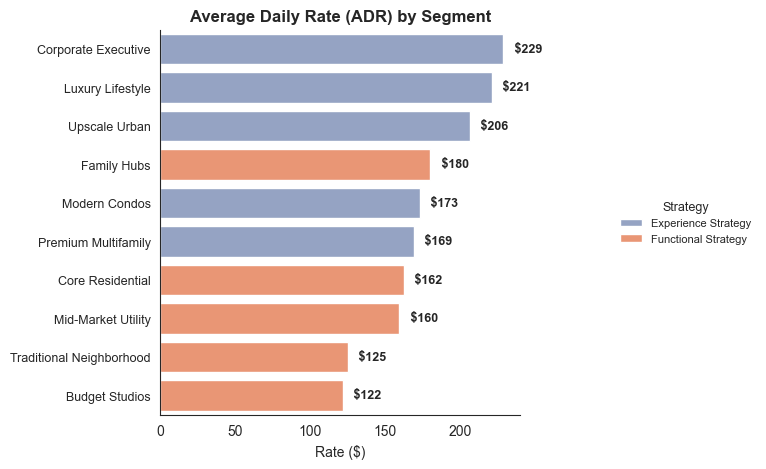
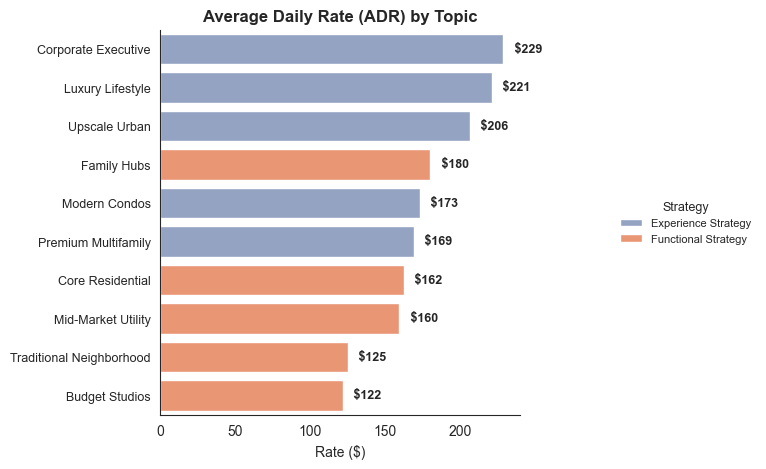
updated chart titles

Changed region(s): [[0.2402, 0.0, 0.6606, 0.0597]]

diff --git a/nlp/topic_analysis.py b/nlp/topic_analysis.py
@@ -41,7 +41,7 @@ sns.set_style("white")
 rev_data = topic_stats.sort_values(by='ttm_revenue', ascending=False)
 plt.figure(figsize=(8, 5)) 
 ax = sns.barplot(x='ttm_revenue', y='topic_name', data=rev_data, hue='strategy', palette=soft_palette, dodge=False)
-plt.title('Average Annual Revenue (TTM) by Segment', fontsize=12, fontweight='bold')
+plt.title('Average Annual Revenue by Topic', fontsize=12, fontweight='bold')
 plt.xlabel('Revenue ($)', fontsize=10)
 plt.ylabel('')
 plt.yticks(fontsize=9)
@@ -61,7 +61,7 @@ plt.savefig('nlp/visualizations/revenue_by_topic.png', transparent=True, bbox_in
 rate_data = topic_stats.sort_values(by='ttm_avg_rate', ascending=False)
 plt.figure(figsize=(8, 5))
 ax = sns.barplot(x='ttm_avg_rate', y='topic_name', data=rate_data, hue='strategy', palette=soft_palette, dodge=False)
-plt.title('Average Daily Rate (ADR) by Segment', fontsize=12, fontweight='bold')
+plt.title('Average Daily Rate (ADR) by Topic', fontsize=12, fontweight='bold')
 plt.xlabel('Rate ($)', fontsize=10)
 plt.ylabel('')
 plt.yticks(fontsize=9)
@@ -80,7 +80,7 @@ plt.savefig('nlp/visualizations/rate_by_topic.png', transparent=True, bbox_inche
 occ_data = topic_stats.sort_values(by='ttm_occupancy', ascending=False)
 plt.figure(figsize=(8, 5))
 ax = sns.barplot(x='ttm_occupancy', y='topic_name', data=occ_data, hue='strategy', palette=soft_palette, dodge=False)
-plt.title('Average Annual Occupancy by Segment', fontsize=12, fontweight='bold')
+plt.title('Average Annual Occupancy by Topic', fontsize=12, fontweight='bold')
 plt.xlabel('Occupancy (%)', fontsize=10)
 plt.ylabel('')
 plt.yticks(fontsize=9)
